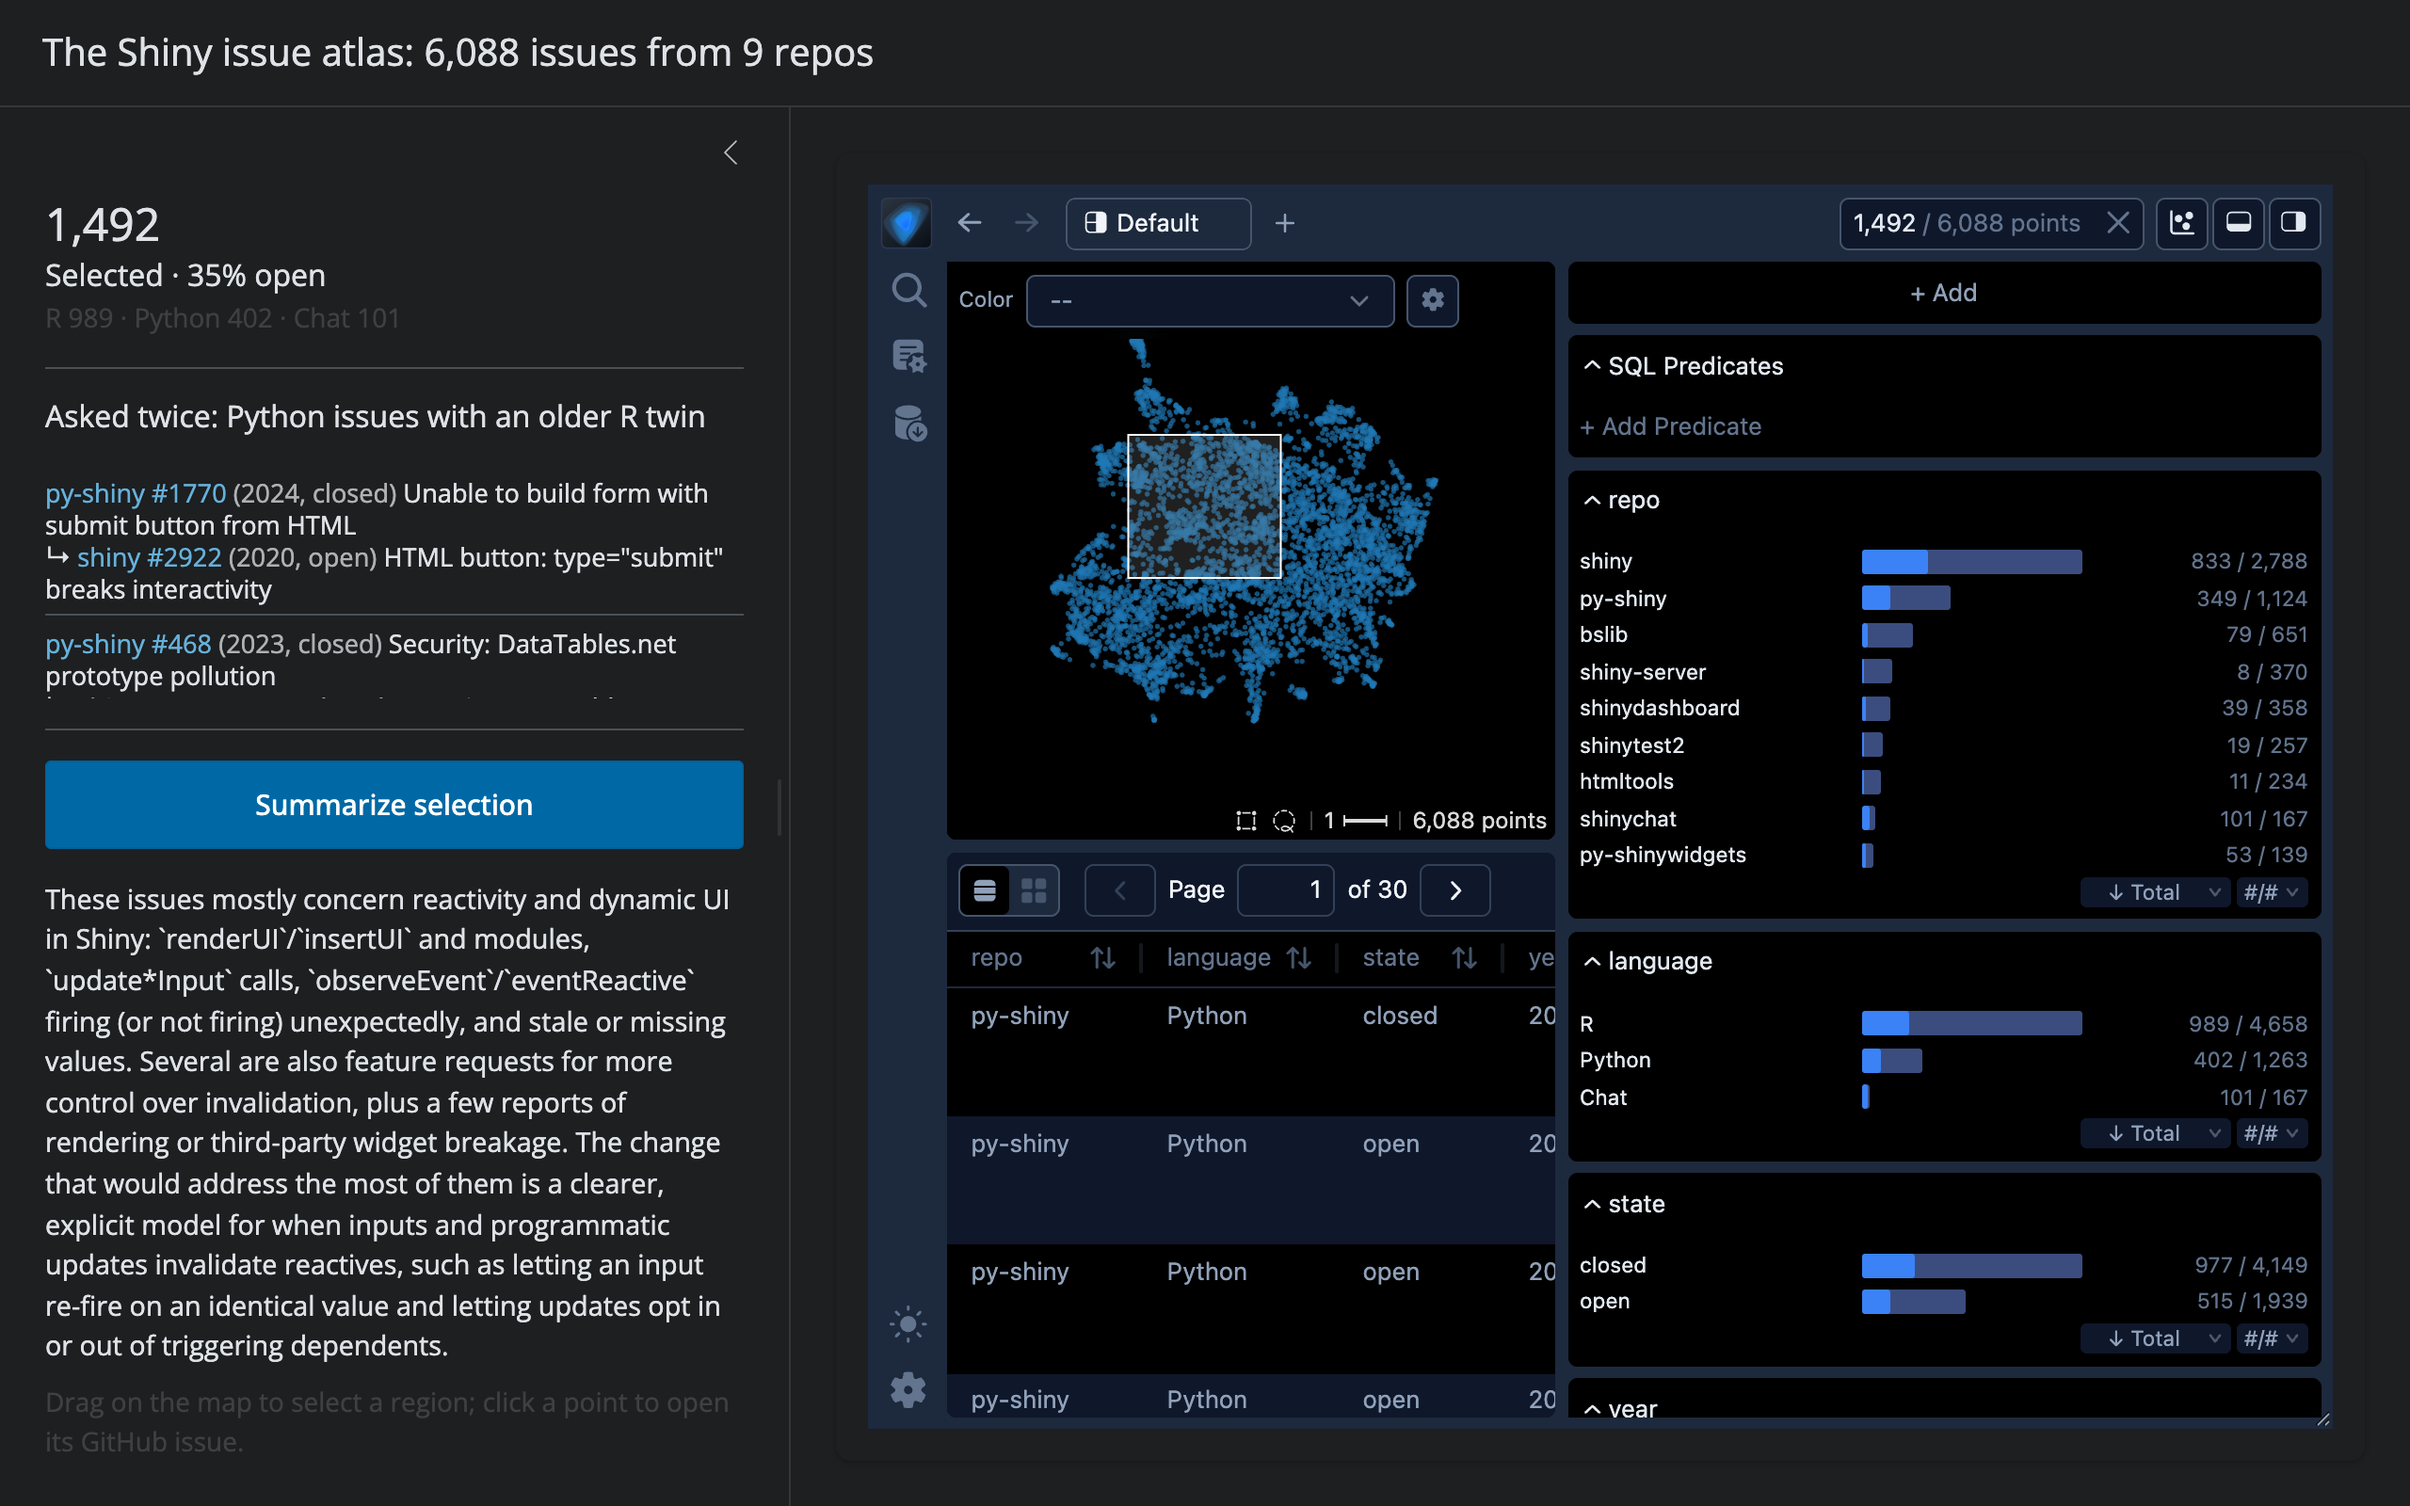
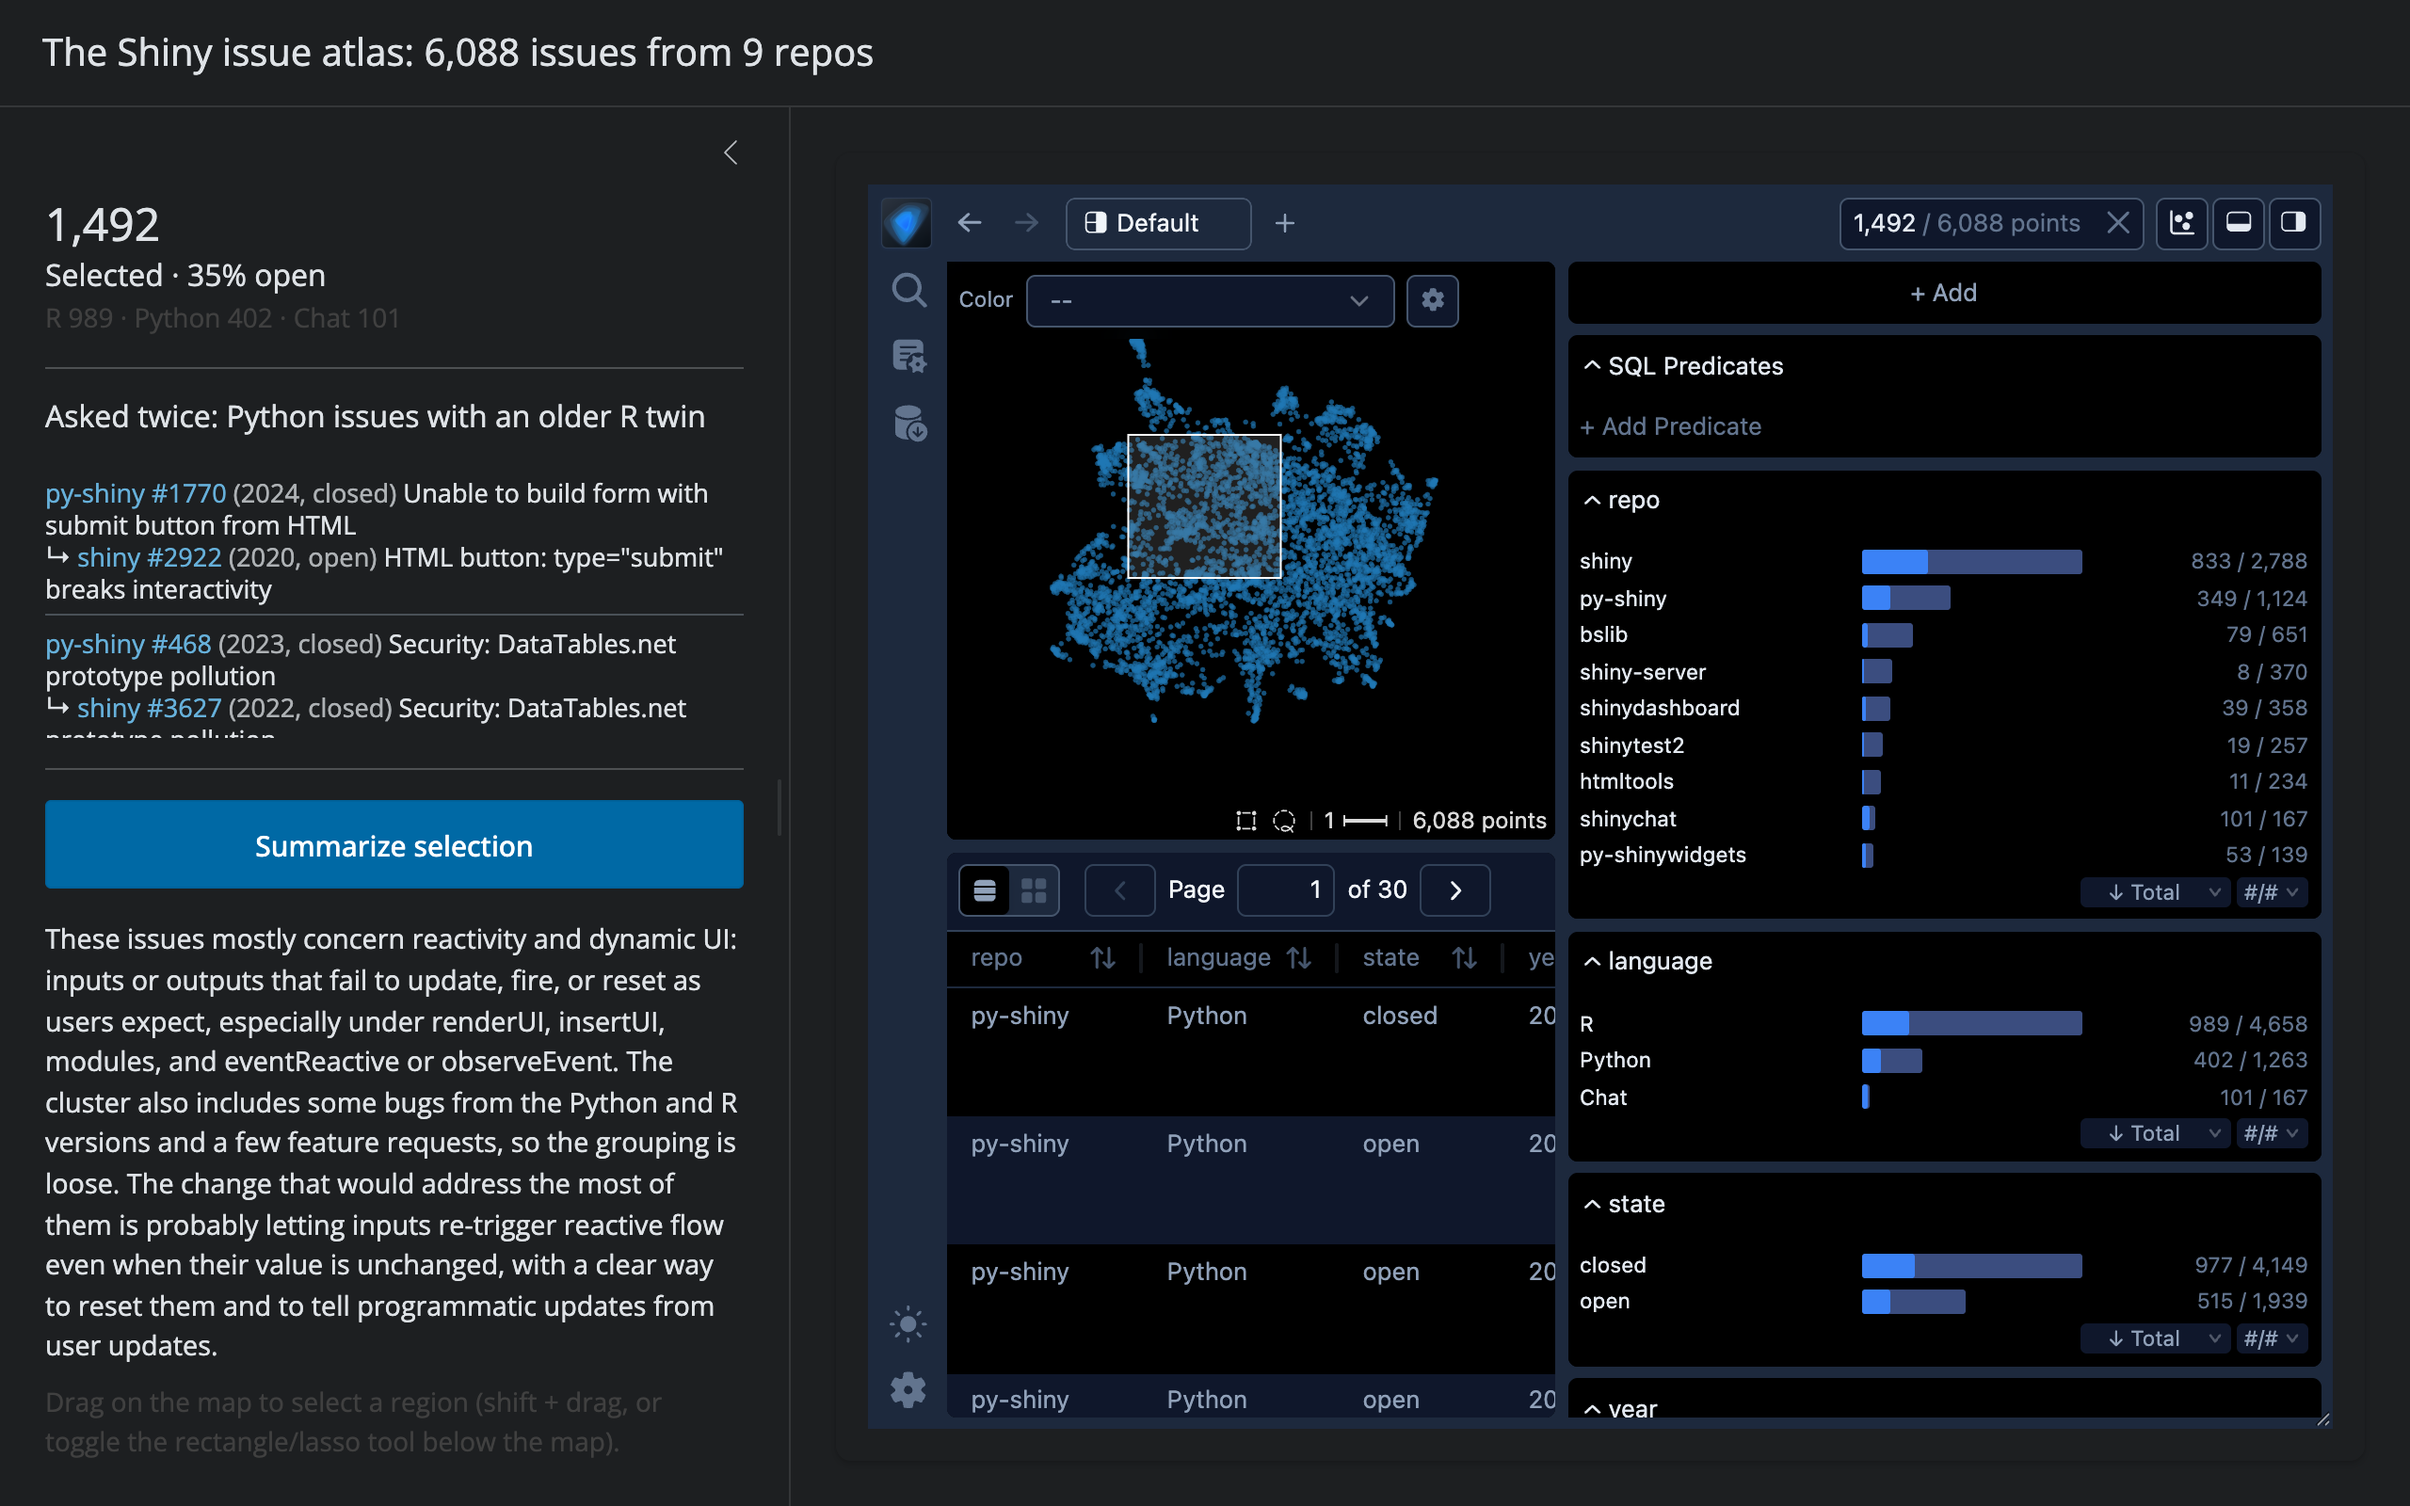
gallery: fix a false claim in the issue atlas's sidebar tip
The sidebar said clicking a point opens its GitHub issue; the app never
wires up that gesture (the atlas isn't given a url column, and a plain
click doesn't change the selection), so it was never true. Describes the
actual drag-to-select gesture instead, and re-shoots the two screenshots
that showed the old wording.

Changed region(s): [[0.0, 0.4688, 0.3125, 0.9062], [0.0938, 0.9062, 0.25, 0.9688], [0.0312, 0.9375, 0.0625, 0.9688]]

diff --git a/website/gallery/showcases/issue-atlas/app.py b/website/gallery/showcases/issue-atlas/app.py
@@ -64,7 +64,8 @@ app_ui = ui.page_sidebar(
         ui.output_ui("summarize_button"),
         ui.output_ui("summary"),
         ui.p(
-            "Drag on the map to select a region; click a point to open its GitHub issue.",
+            "Drag on the map to select a region (shift + drag, or toggle the "
+            "rectangle/lasso tool below the map).",
             class_="text-secondary small mt-auto mb-0",
         ),
         width=420,
